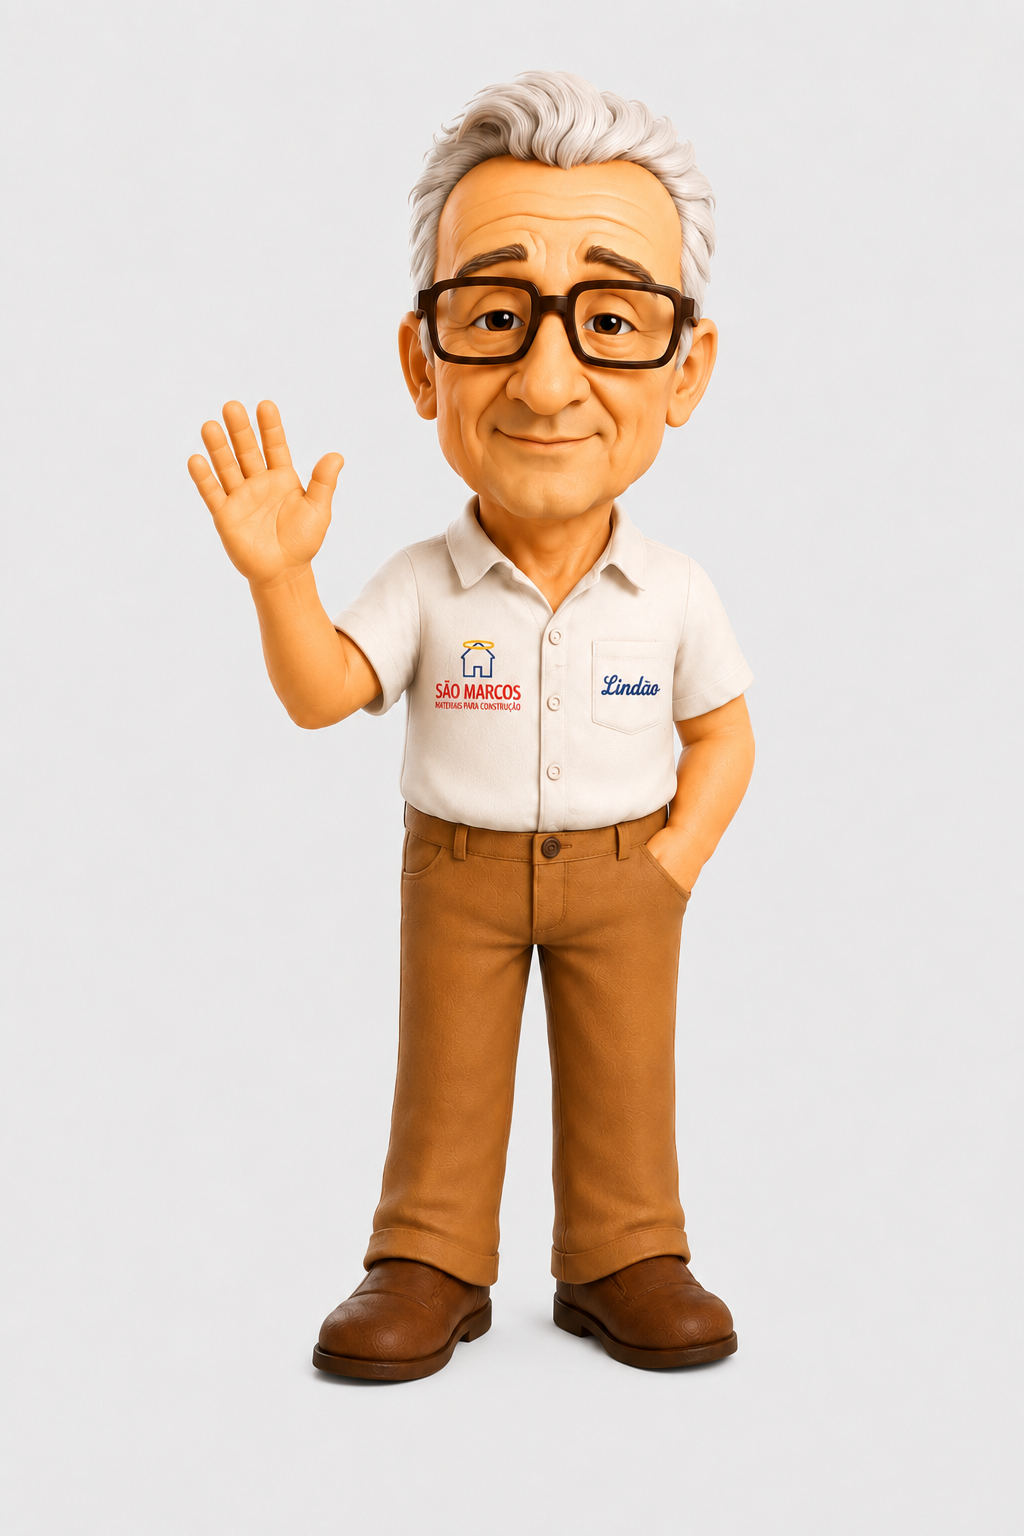
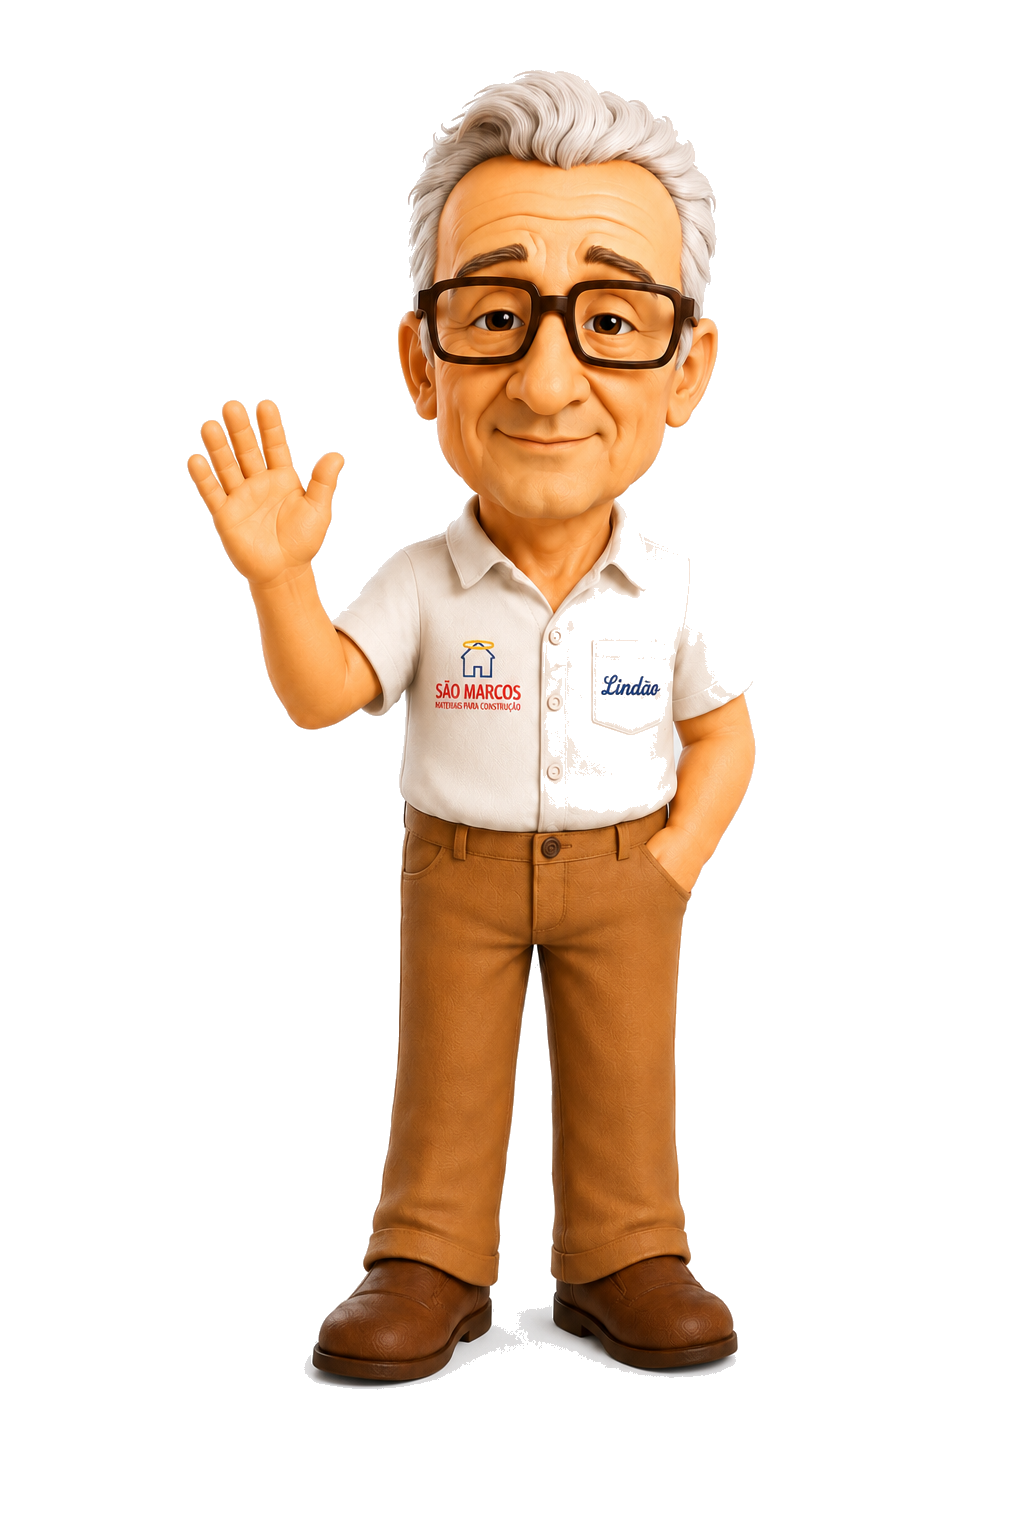
fix: redesign dashboard hero layout

diff --git a/src/app/admin/dashboard/page.tsx b/src/app/admin/dashboard/page.tsx
@@ -164,11 +164,7 @@ export default async function AdminDashboardPage() {
 
   return (
     <>
-      <PageHeader
-        eyebrow="Admin"
-        title="Painel"
-        description="Indicadores do Clube do Lindao."
-      />
+      <PageHeader eyebrow="Admin" title="Painel" />
 
       {loadError ? (
         <Alert variant="error" title="Nao foi possivel atualizar o painel">
@@ -176,20 +172,20 @@ export default async function AdminDashboardPage() {
         </Alert>
       ) : null}
 
-      <section className="relative min-h-64 overflow-hidden rounded-lg border border-lindao-gold/35 bg-[radial-gradient(circle_at_78%_18%,rgba(245,197,24,0.2),transparent_18rem),linear-gradient(135deg,rgba(24,67,184,0.88),rgba(6,15,46,0.96))] p-6 shadow-[0_28px_90px_rgba(0,0,0,0.34)] sm:p-8">
-        <div className="pointer-events-none absolute inset-y-0 right-0 hidden w-[46%] overflow-hidden bg-[radial-gradient(circle_at_60%_50%,rgba(245,197,24,0.18),transparent_17rem)] md:block">
-          <div className="absolute inset-y-0 left-0 z-[1] w-28 bg-gradient-to-r from-lindao-blue/80 via-lindao-blue/20 to-transparent" />
+      <section className="relative min-h-[220px] overflow-hidden rounded-lg border border-lindao-gold/35 bg-[radial-gradient(circle_at_82%_20%,rgba(245,197,24,0.22),transparent_15rem),radial-gradient(circle_at_16%_0%,rgba(37,99,235,0.42),transparent_18rem),linear-gradient(135deg,#1843b8_0%,#10275f_48%,#060f2e_100%)] p-5 shadow-[0_28px_90px_rgba(0,0,0,0.34)] sm:p-7 md:min-h-[245px]">
+        <div className="pointer-events-none absolute bottom-0 right-3 hidden h-[240px] w-[255px] md:block lg:right-6 lg:h-[276px] lg:w-[300px]">
+          <div className="absolute bottom-0 right-4 h-28 w-40 rounded-full bg-lindao-gold/18 blur-2xl" />
           <Image
             src="/images/boneco3.PNG"
             alt=""
-            fill
+            width={300}
+            height={360}
             priority
-            sizes="(min-width: 1024px) 420px, 46vw"
             aria-hidden="true"
-            className="object-contain object-right-bottom opacity-95 mix-blend-multiply drop-shadow-[0_24px_40px_rgba(0,0,0,0.32)]"
+            className="relative z-[1] h-full w-full object-contain object-bottom drop-shadow-[0_24px_38px_rgba(0,0,0,0.34)]"
           />
         </div>
-        <div className="relative z-[2] max-w-2xl space-y-5 md:max-w-[60%]">
+        <div className="relative z-[2] max-w-xl space-y-4 pr-0 md:max-w-[62%]">
           <div className="flex flex-wrap items-center gap-3">
             <Image
               src="/images/logo.PNG"
@@ -197,7 +193,7 @@ export default async function AdminDashboardPage() {
               width={72}
               height={72}
               priority
-              className="object-contain drop-shadow-[0_16px_32px_rgba(0,0,0,0.28)]"
+              className="h-auto object-contain drop-shadow-[0_16px_32px_rgba(0,0,0,0.28)]"
             />
             <Badge>Programa de Fidelidade Oficial</Badge>
           </div>
@@ -205,9 +201,9 @@ export default async function AdminDashboardPage() {
             <h2 className="text-3xl font-black text-white sm:text-5xl">
               Comprou, pontuou, ganhou.
             </h2>
-            <p className="mt-3 max-w-xl text-base leading-7 text-slate-200">
-              Painel administrativo do Clube do Lindao para acompanhar clientes,
-              compras, pontos e premios do Deposito Sao Marcos.
+            <p className="mt-3 max-w-lg text-base leading-7 text-slate-200">
+              Acompanhe clientes, compras, pontos e premios do Deposito Sao
+              Marcos.
             </p>
           </div>
         </div>